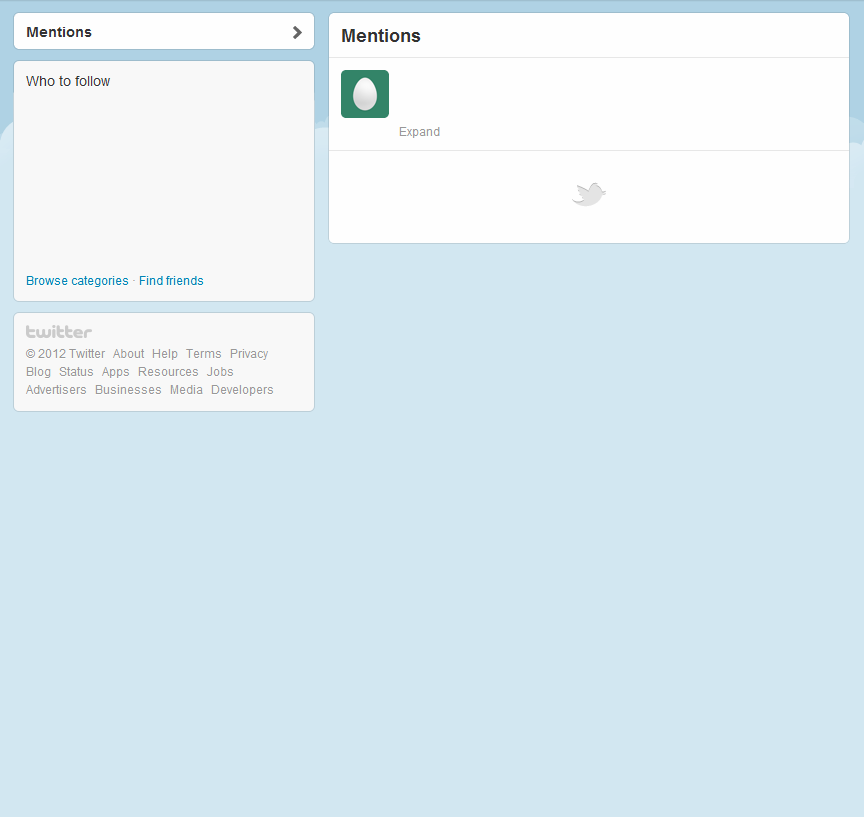
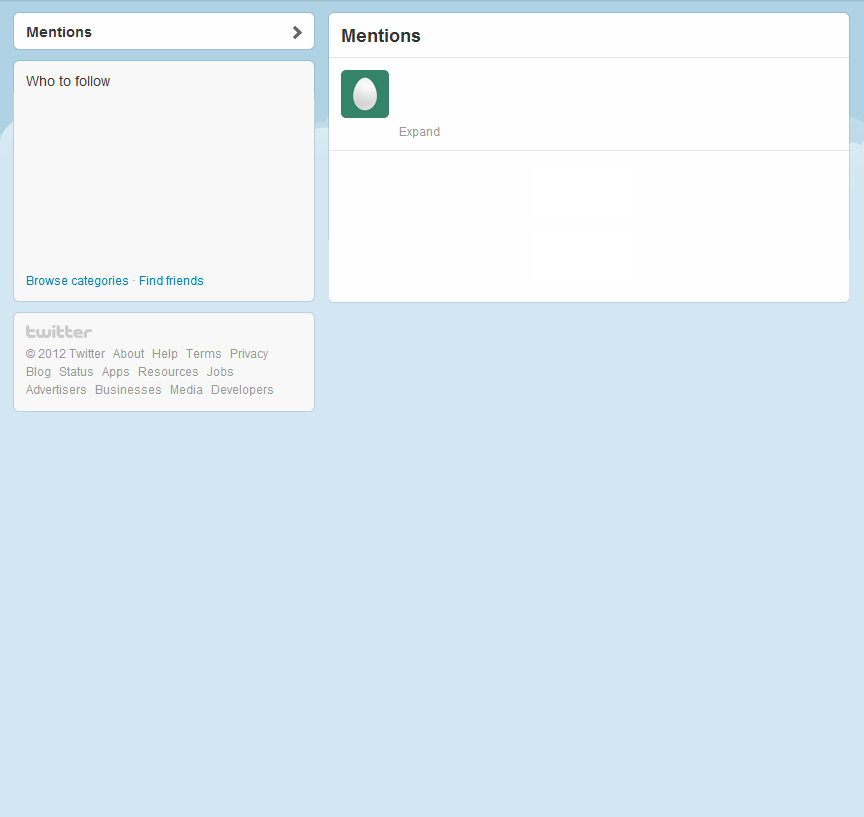
connectseite weiter angepasst, actions funktionieren

Changed region(s): [[0.375, 0.2142, 1.0, 0.3672]]

diff --git a/public/stylesheets/experiment.css b/public/stylesheets/experiment.css
@@ -42,6 +42,14 @@ body {
   text-align: left;
 }
 
+#tweet3{
+  position: relative;
+  top:-150px;
+  left: 399px;
+  height: 50px;
+  text-align: left;
+}
+
 #container{ 
 }
 
@@ -233,21 +241,22 @@ textarea#user_reply_text{
   background-color: white;
   border-style: hidden;
   border-radius: 6px;
-  border-bottom-right-radius:29px;
+
   -webkit-rtl-ordering: logical;
   -webkit-user-select: text;
   -webkit-box-orient: vertical;
   resize: auto;
   cursor: auto;
-  padding: 2px;
+
   white-space: pre-wrap;
   word-wrap: break-word;
+  width: 462px;
 
 }
 
 #tweeter_name_groß{
   position:relative;
-  left:-301px;
+  left:92px;
   top:17px;
   font-size: 1.3em;
   font-weight: bold;
@@ -255,7 +264,7 @@ textarea#user_reply_text{
 
 #close{
   position:relative;
-  left:481px;
+  left:472px;
   top:-7px;
 }
 
@@ -297,18 +306,18 @@ textarea#user_tweet_text_n{
   background-color: white;
   border-style: hidden;
   border-radius: 6px;
-  border-bottom-right-radius:29px;
+
   -webkit-rtl-ordering: logical;
   -webkit-user-select: text;
   -webkit-box-orient: vertical;
   resize: auto;
   cursor: auto;
-  padding: 2px;
   white-space: pre-wrap;
   word-wrap: break-word;
-  position:relative;
-  left:-180px;
-  top:35px;
+  position:absolute;
+  left:17px;
+  top:57px;
+  width: 463px;
 }
 
 textarea#user_tweet_text{
@@ -331,14 +340,14 @@ textarea#user_tweet_text{
 
 #close_tweet{
   position:relative;
-  left:47px;
+  left:467px;
   top:12px;
 }
 
 #tweet_button_change{
   position:relative;
-  left:14px;
-  top:41px;
+  left:396px;
+  top:110px;
 }
 #reply_button_change{
   float: right;
@@ -455,7 +464,7 @@ textarea#user_search{
   float: left; 
   position:relative;
   left:390px;
-  top:50px;
+  top:119px;
 }
 
 #charcount_c{
@@ -603,10 +612,15 @@ textarea#user_search{
   left:405px;
   top:-90px;
 }
-
 #ende{
   position:relative;
   left:160px;
   top: 97px;
+  
+}
+#ende2{
+  position:relative;
+  left:-73px;
+  top: -7px;
   
 }

diff --git a/app/controllers/users_controller.rb b/app/controllers/users_controller.rb
@@ -33,6 +33,7 @@ class UsersController < ApplicationController
     number = params[:number].to_i
     session[:user_params].deep_merge!({:reply_1_clicked => 1}) if number == 1
     session[:user_params].deep_merge!({:reply_2_clicked => 1}) if number == 2
+    session[:user_params].deep_merge!({:reply_1_clicked => 1}) if number == 3
     respond_to do |format|
       format.js {
               render(:update) do |page|
@@ -45,6 +46,7 @@ class UsersController < ApplicationController
   def retweet
     number = params[:number].to_i
     session[:user_params].deep_merge!({:retweet_1_clicked => 1}) if number == 1
+    session[:user_params].deep_merge!({:retweet_1_clicked => 1}) if number == 3
     session[:user_params].deep_merge!({:retweet_2_clicked => 1}) if number == 2
     respond_to do |format|
       format.js {
@@ -59,6 +61,7 @@ class UsersController < ApplicationController
   def favorite
     number = params[:number].to_i
     session[:user_params].deep_merge!({:favorite_1_clicked => 1}) if number == 1
+    session[:user_params].deep_merge!({:favorite_1_clicked => 1}) if number == 3
     session[:user_params].deep_merge!({:favorite_2_clicked => 1}) if number == 2
     respond_to do |format|
       format.js {
@@ -76,6 +79,7 @@ class UsersController < ApplicationController
     number = params[:number].to_i
     session[:user_params].deep_merge!({:expand_1_clicked => 1}) if number == 1
     session[:user_params].deep_merge!({:expand_2_clicked => 1}) if number == 2
+    session[:user_params].deep_merge!({:expand_1_clicked => 1}) if number == 3
     respond_to do |format|
       format.js {
             render(:update) do |page|
@@ -117,6 +121,7 @@ class UsersController < ApplicationController
                 page.hide 'compose_tweet_seite';
                 page.hide "expand_page1" if number == 1
                 page.hide "expand_page2" if number == 2
+                page.hide "expand_page3" if number == 3
                 page.hide 'connect_page';
               end
             }

diff --git a/app/models/user.rb b/app/models/user.rb
@@ -24,8 +24,8 @@ class User < ActiveRecord::Base
       #self.seen_situation = show
       self.seen_retweet_message1 = generate_random_retweet
       self.seen_retweet_message2 = generate_random_retweet
-      self.seen_multiple_messages = generate_random_themes
-      self.seen_at = true
+      self.seen_multiple_messages = true
+      self.seen_at = generate_random_at
       self.seen_person = generate_random_person
       generate_messages
     end
